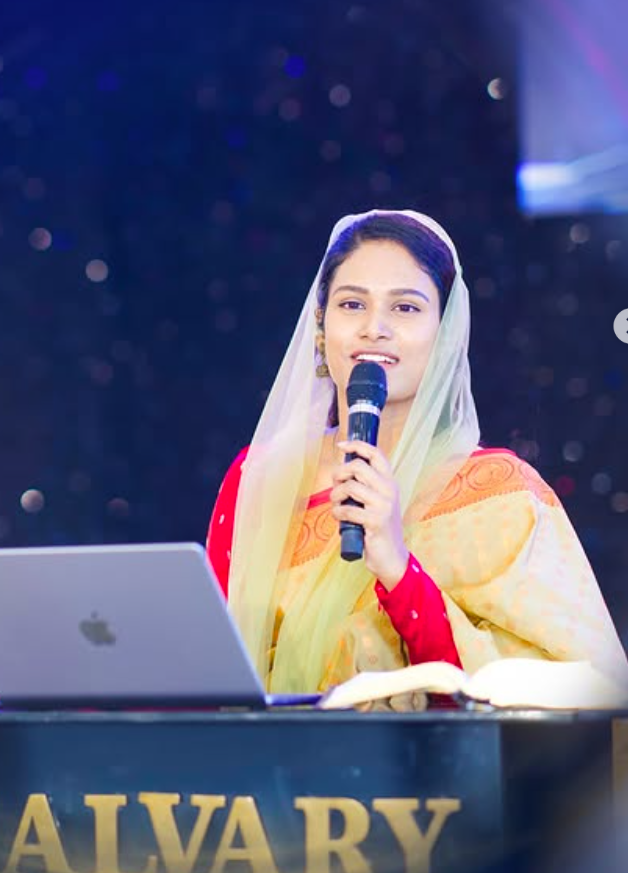
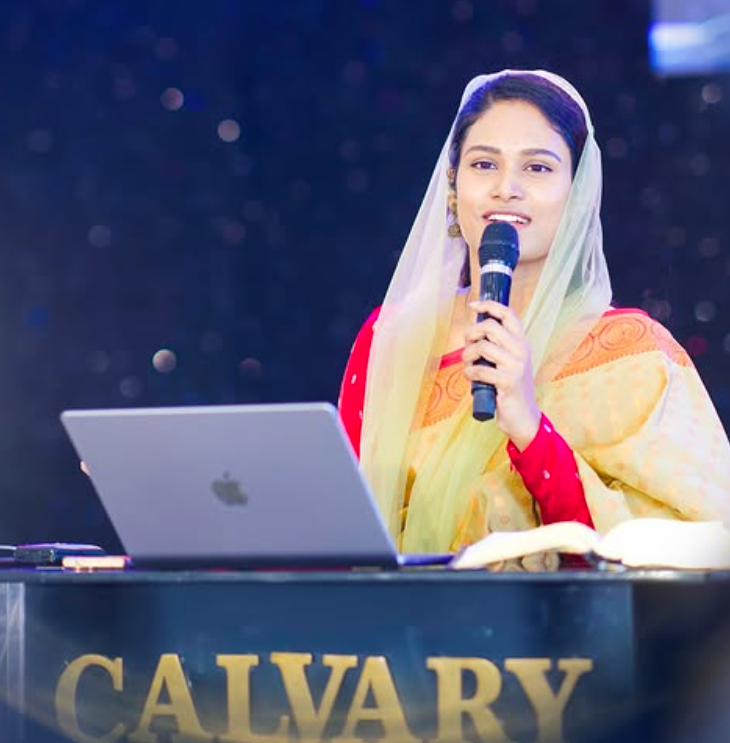
Scale out and center both Pastor Michael and Co-Pastor Sis Sami photos with matched podium framing

diff --git a/index.html b/index.html
@@ -21,7 +21,7 @@
     <link rel="stylesheet" href="https://cdnjs.cloudflare.com/ajax/libs/font-awesome/6.5.1/css/all.min.css">
 
     <!-- Stylesheet -->
-    <link rel="stylesheet" href="style.css?v=26">
+    <link rel="stylesheet" href="style.css?v=31">
 </head>
 
 <body class="dark-theme">
@@ -150,7 +150,7 @@
                     <!-- PASTOR N MICHAEL PAUL CARD -->
                     <div class="pastor-individual-card glass-panel animate-on-scroll">
                         <div class="pastor-img-box">
-                            <img src="assets/pastor-michael-card.png" alt="Pastor N Michael Paul"
+                            <img src="assets/pastor-michael-card.png?v=3" alt="Pastor N Michael Paul"
                                 class="pastor-profile-img img-pastor-card-position">
                             <div class="pastor-img-overlay"></div>
                         </div>
@@ -190,7 +190,7 @@
                     <!-- SIS. SAMI SYMPHONY PAUL CARD -->
                     <div class="pastor-individual-card glass-panel animate-on-scroll">
                         <div class="pastor-img-box">
-                            <img src="assets/sister-sami-card.png" alt="Sis. Sami Symphony Paul"
+                            <img src="assets/sister-sami-card.png?v=3" alt="Sis. Sami Symphony Paul"
                                 class="pastor-profile-img img-sister-card-position">
                             <div class="pastor-img-overlay"></div>
                         </div>

diff --git a/style.css b/style.css
@@ -2293,7 +2293,7 @@ a.info-content:hover {
 
 .pastor-img-box {
     position: relative;
-    height: 420px;
+    height: 450px;
     overflow: hidden;
     border-bottom: 1px solid var(--border-glass);
 }
@@ -2306,11 +2306,11 @@ a.info-content:hover {
 }
 
 .img-pastor-card-position {
-    object-position: center 5%;
+    object-position: center top;
 }
 
 .img-sister-card-position {
-    object-position: center 30%;
+    object-position: center top;
 }
 
 .pastor-individual-card:hover .pastor-profile-img {
@@ -2333,8 +2333,8 @@ a.info-content:hover {
     bottom: 0;
     left: 0;
     width: 100%;
-    height: 50%;
-    background: linear-gradient(180deg, transparent 0%, var(--bg-secondary) 100%);
+    height: 22%;
+    background: linear-gradient(180deg, transparent 0%, rgba(14, 16, 23, 0.85) 100%);
     pointer-events: none;
 }
 
